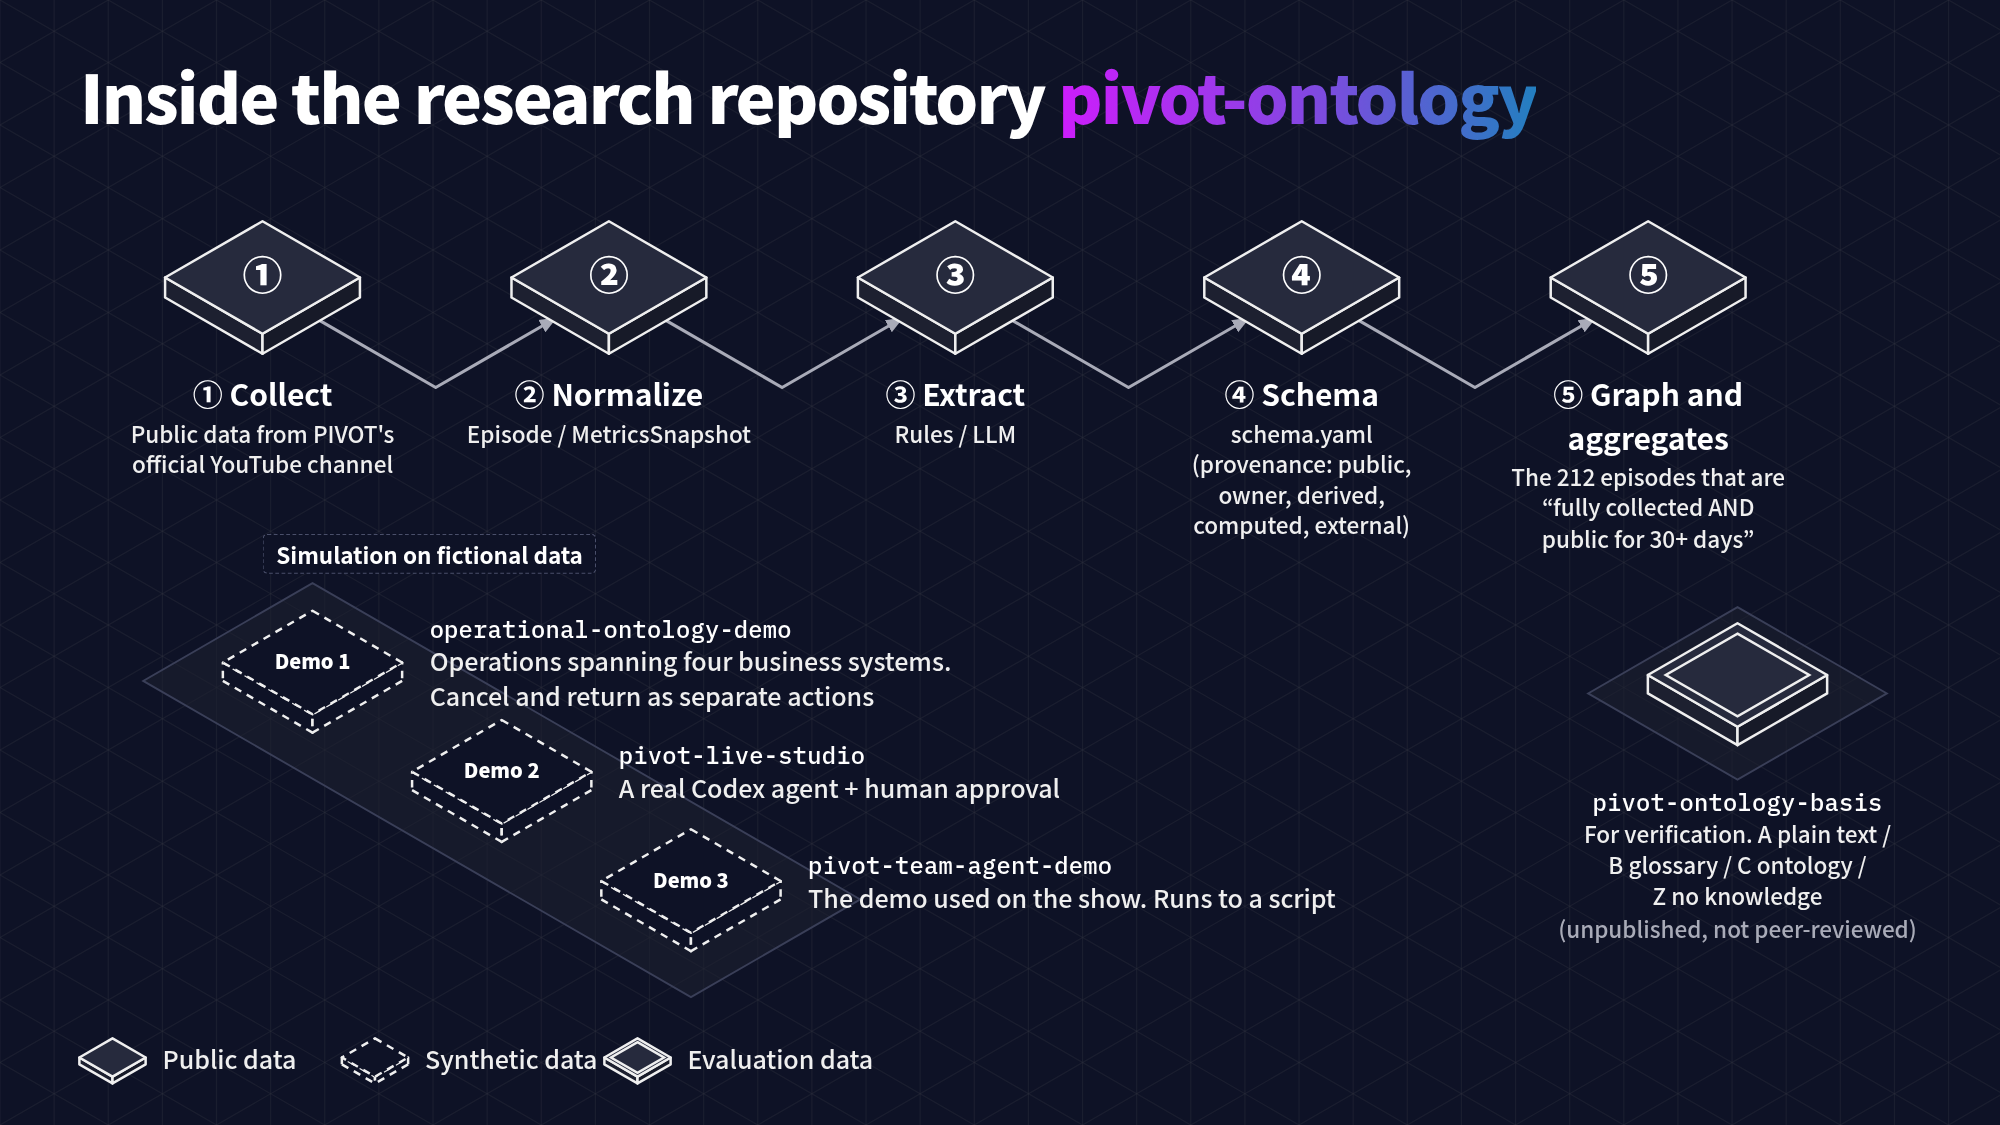
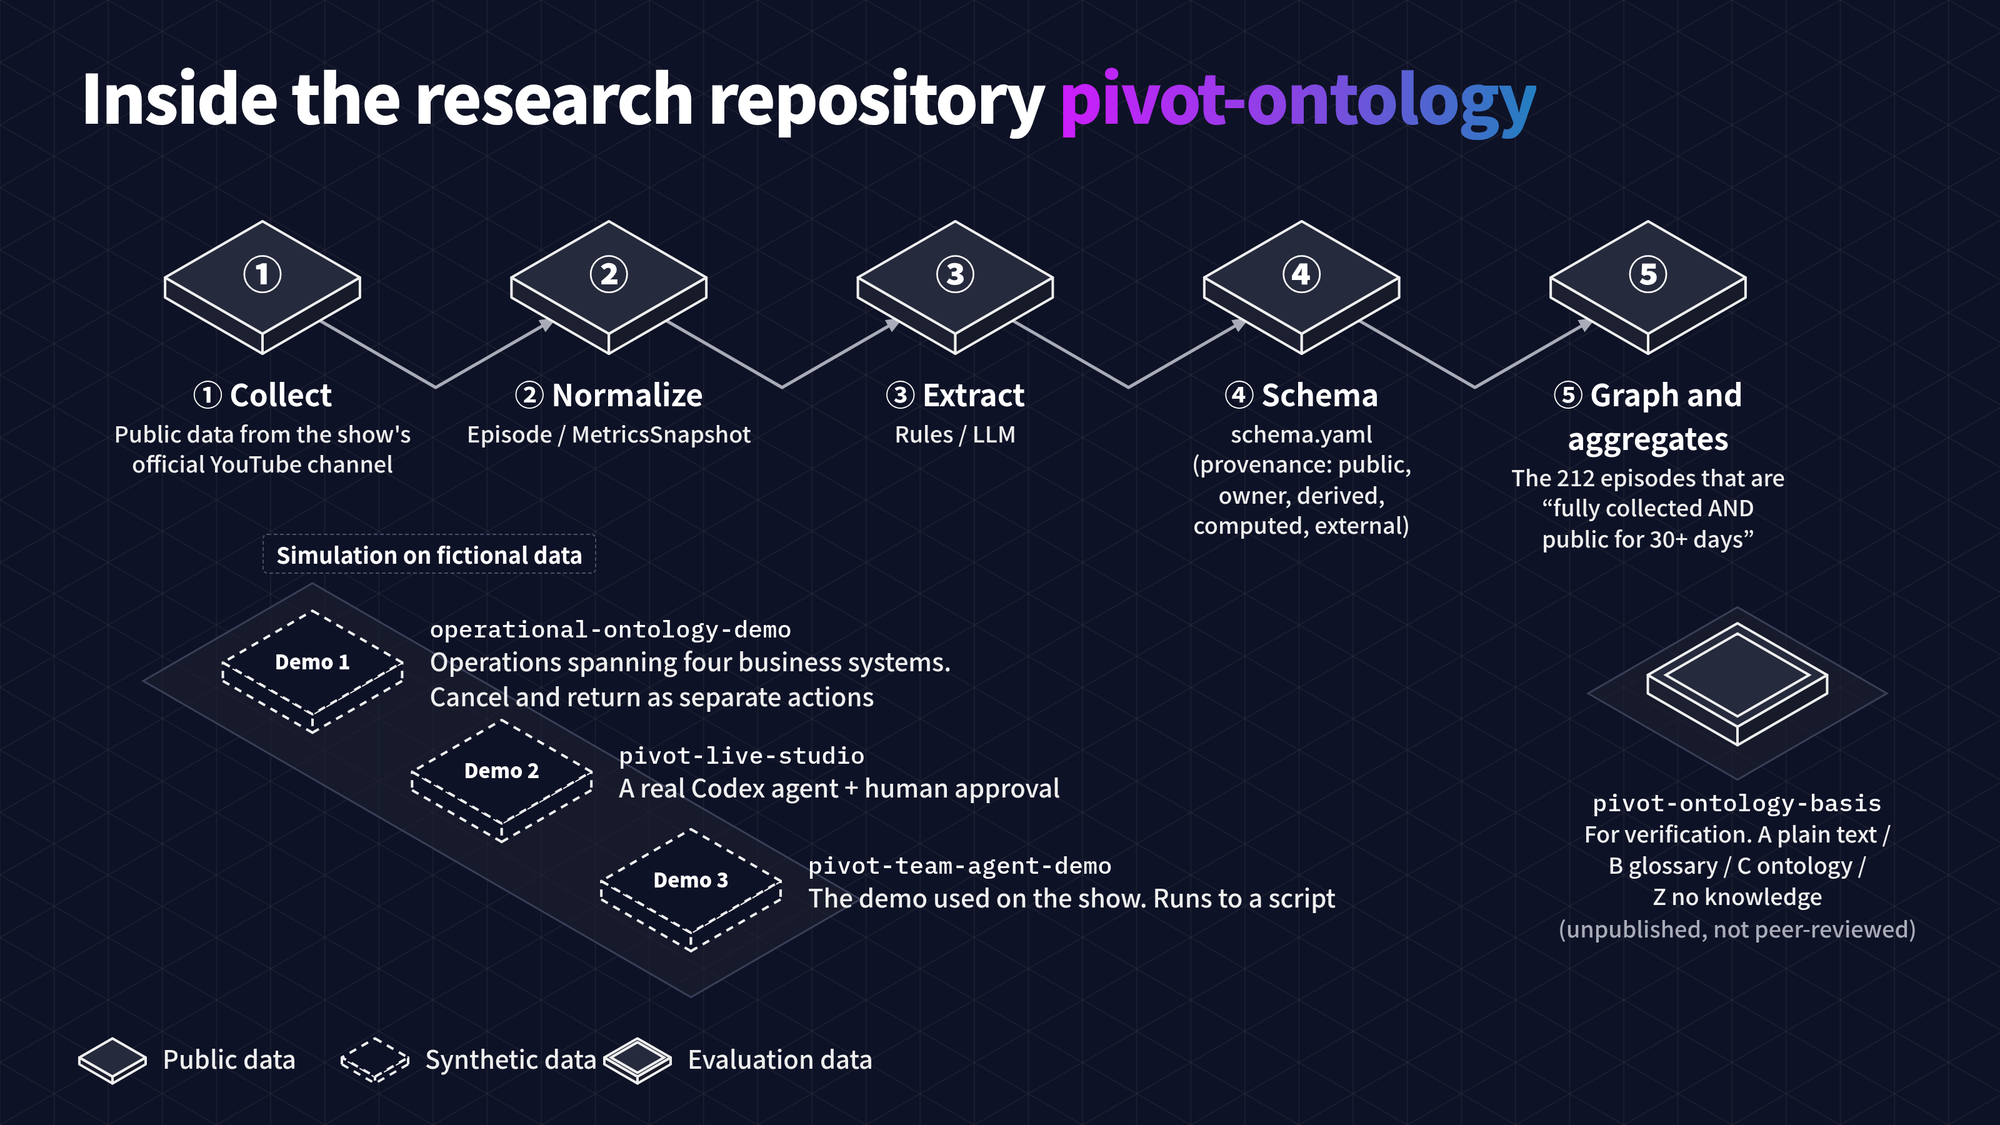
EN figures: replace PIVOT with Japanese TV show wording (note F1, Techblog fig5)

diff --git a/2026-11-19/ontology-en/scripts/ont_build_en.py b/2026-11-19/ontology-en/scripts/ont_build_en.py
@@ -11,7 +11,7 @@ def fig(fn): FIG[fn.__name__]=fn; return fn
 @fig
 def F1():   # key visual: one base plate (ontology) carries semantics (dots & lines) and kinetics (approval & write-back)
     f=Fig('F1')
-    f.pill('Third appearance on PIVOT',200,470,44,left=True)
+    f.pill('My third time on a Japanese TV show',200,470,44,left=True)
     f.text('A blueprint of meaning',200,650,120,anchor='lm',kind='h',wrap='A blueprint⏎of meaning',pitch=1.25)
     f.text("It's more than just data",206,880,60,anchor='lm',kind='t')
     b=f.slab(1900,1060,540,accent='violet'); f.face(b,[('Ontology','h',None)],fs=76)
